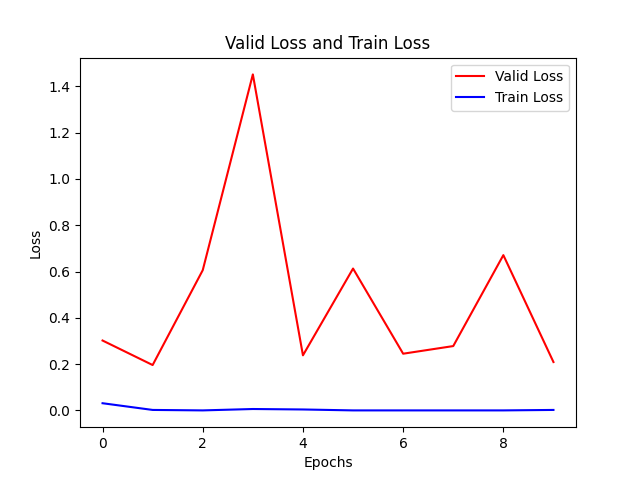
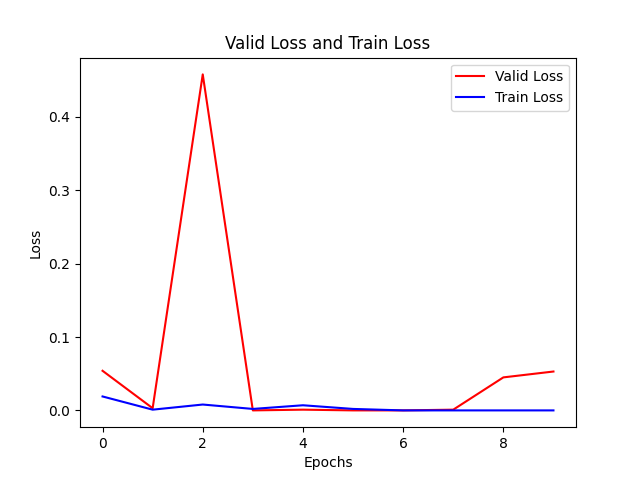
MOD

diff --git a/logs-training.md b/logs-training.md
@@ -3,11 +3,10 @@ Log del Entrenamiento
 
 ```
 
-
-Number of Samples in Train:  73
-Number of Samples in Valid:  8
-Number of Samples in Test:  25
-Total:  106
+Number of Samples in Train:  84
+Number of Samples in Valid:  9
+Number of Samples in Test:  5
+Total:  98
 Number of Classes:  2
 ['buenas', 'malas']
 cpu
@@ -133,61 +132,60 @@ Starting Epoch 2
 Starting Epoch 3
 Starting Epoch 4
 Starting Epoch 5
-No. epochs: 5 	Training Loss: 0.041 	Valid Loss 1.855 	Valid Accuracy 0.375
+No. epochs: 5 	Training Loss: 0.019 	Valid Loss 0.054 	Valid Accuracy 1.0
 Starting Epoch 6
 Starting Epoch 7
 Starting Epoch 8
 Starting Epoch 9
 Starting Epoch 10
-No. epochs: 10 	Training Loss: 0.077 	Valid Loss 0.641 	Valid Accuracy 0.75
+No. epochs: 10 	Training Loss: 0.001 	Valid Loss 0.003 	Valid Accuracy 1.0
 Starting Epoch 11
 Starting Epoch 12
 Starting Epoch 13
 Starting Epoch 14
 Starting Epoch 15
-No. epochs: 15 	Training Loss: 0.113 	Valid Loss 0.691 	Valid Accuracy 0.625
+No. epochs: 15 	Training Loss: 0.008 	Valid Loss 0.458 	Valid Accuracy 0.889
 Starting Epoch 16
 Starting Epoch 17
 Starting Epoch 18
 Starting Epoch 19
 Starting Epoch 20
-No. epochs: 20 	Training Loss: 0.006 	Valid Loss 0.201 	Valid Accuracy 0.875
+No. epochs: 20 	Training Loss: 0.002 	Valid Loss 0.0 	Valid Accuracy 1.0
 Starting Epoch 21
 Starting Epoch 22
 Starting Epoch 23
 Starting Epoch 24
 Starting Epoch 25
-No. epochs: 25 	Training Loss: 0.005 	Valid Loss 0.0 	Valid Accuracy 1.0
+No. epochs: 25 	Training Loss: 0.007 	Valid Loss 0.001 	Valid Accuracy 1.0
 Starting Epoch 26
 Starting Epoch 27
 Starting Epoch 28
 Starting Epoch 29
 Starting Epoch 30
-No. epochs: 30 	Training Loss: 0.009 	Valid Loss 2.093 	Valid Accuracy 0.625
+No. epochs: 30 	Training Loss: 0.002 	Valid Loss 0.0 	Valid Accuracy 1.0
 Starting Epoch 31
 Starting Epoch 32
 Starting Epoch 33
 Starting Epoch 34
 Starting Epoch 35
-No. epochs: 35 	Training Loss: 0.082 	Valid Loss 0.47 	Valid Accuracy 0.875
+No. epochs: 35 	Training Loss: 0.0 	Valid Loss 0.0 	Valid Accuracy 1.0
 Starting Epoch 36
 Starting Epoch 37
 Starting Epoch 38
 Starting Epoch 39
 Starting Epoch 40
-No. epochs: 40 	Training Loss: 0.002 	Valid Loss 0.132 	Valid Accuracy 0.875
+No. epochs: 40 	Training Loss: 0.0 	Valid Loss 0.001 	Valid Accuracy 1.0
 Starting Epoch 41
 Starting Epoch 42
 Starting Epoch 43
 Starting Epoch 44
 Starting Epoch 45
-No. epochs: 45 	Training Loss: 0.002 	Valid Loss 0.074 	Valid Accuracy 1.0
+No. epochs: 45 	Training Loss: 0.0 	Valid Loss 0.045 	Valid Accuracy 1.0
 Starting Epoch 46
 Starting Epoch 47
 Starting Epoch 48
 Starting Epoch 49
 Starting Epoch 50
-No. epochs: 50 	Training Loss: 0.005 	Valid Loss 0.001 	Valid Accuracy 1.0
-
+No. epochs: 50 	Training Loss: 0.0 	Valid Loss 0.053 	Valid Accuracy 1.0
 
 ```
